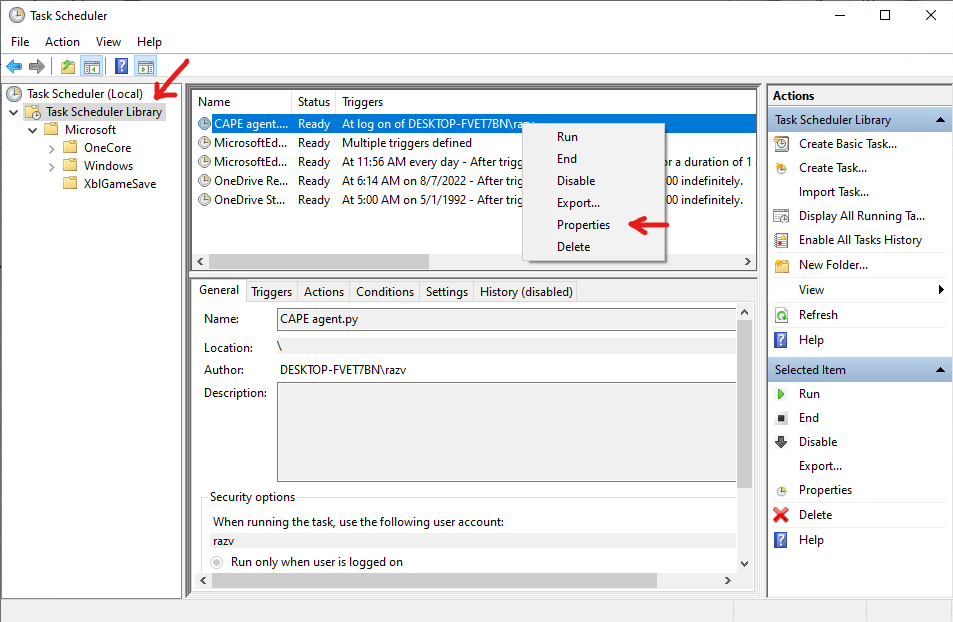
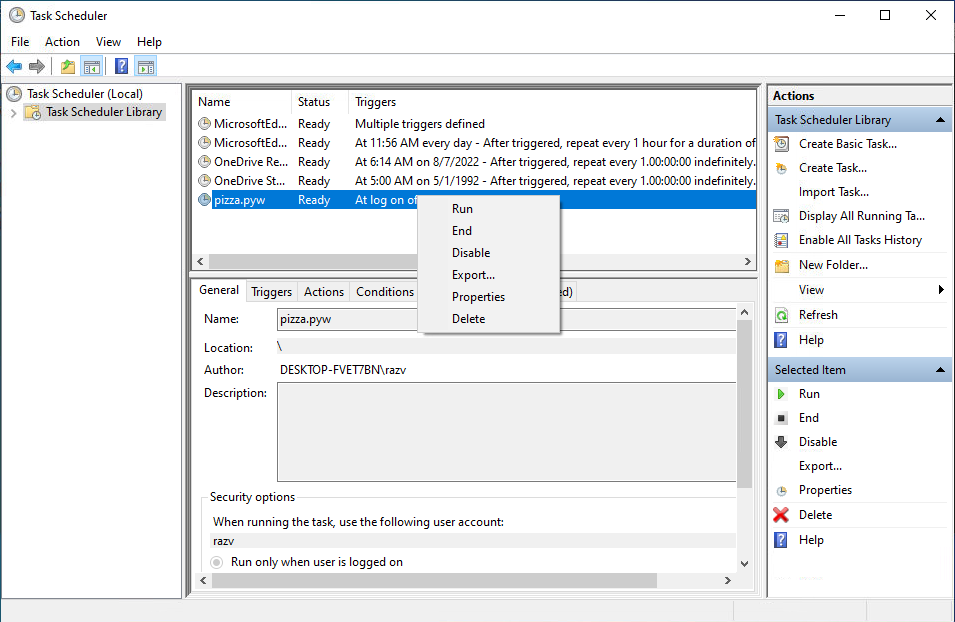
Fixed scheduled task based on @doomedraven's appreciations. Updated screenshots

diff --git a/docs/book/src/installation/guest/agent.rst b/docs/book/src/installation/guest/agent.rst
@@ -59,21 +59,22 @@ result in it being ran with improper privilege.
    .. image:: ../../_images/screenshots/creating_task_scheduler_0.png
         :align: center
 
-3. Give the task a name (for example ``pizza.pyw``, the name is irrelevant) and click **Next**.
+3. Give the task a name (for example ``pizza.pyw``, the name is irrelevant as long as you don't make any mention to CAPE or anything blatant for anti-VM detection algorithms) and click **Next**.
 4. Set the trigger as **When I logon** and click **Next**.
-5. In the **Start a program** window, select the path of the *agent.py*, and click **Finish**.
-6. After the task is created, click the **Task Scheduler Library** and
+5. In the **Action** window, select **Start a program** and click **Next**.
+6. In the **Start a program** window, select the path of the *agent.py*, and click **Finish**.
+7. After the task is created, click the **Task Scheduler Library** and
    find the one you just created. Right click on it and select
    **Properties**.
 
    .. image:: ../../_images/screenshots/creating_task_scheduler_1.png
         :align: center
 
-6. In the general tab tell it to **Run with highest privileges**.
+8. In the general tab tell it to **Run with highest privileges**.
 
    .. image:: ../../_images/screenshots/creating_task_scheduler_2.png
         :align: center
 
-7. Select **OK**.
+9. Select **OK**.
 
 After that all is done, it will come up on the next restart/login.
